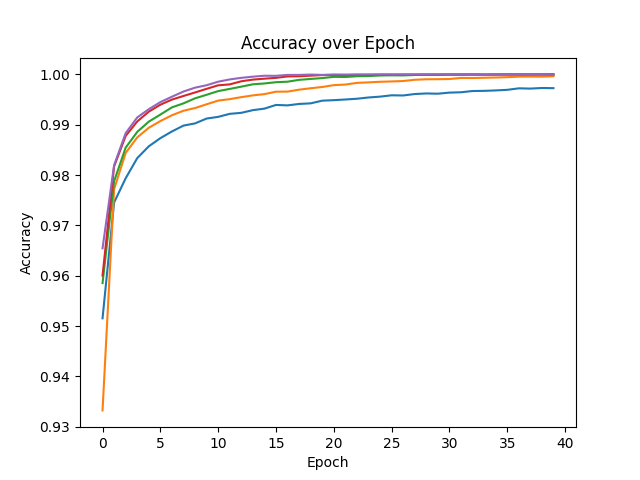
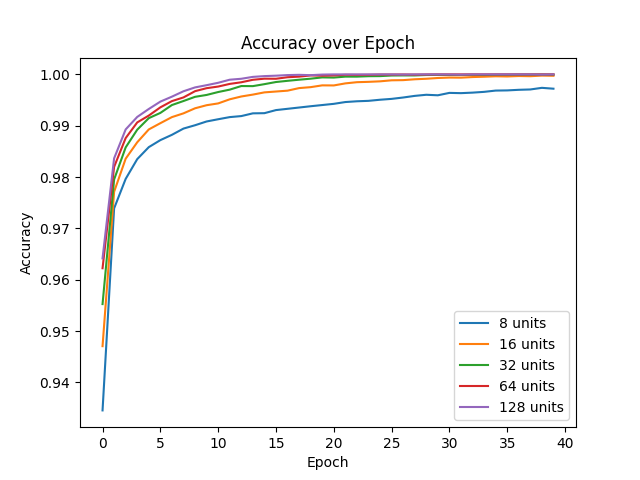
Fix multiple curves HLU

diff --git a/lab3_2_pytorch.py b/lab3_2_pytorch.py
@@ -133,7 +133,8 @@ if __name__ == "__main__":
     # Plot Training Loss Over Epoch
     plt.clf()
     for i in range(NB_HLU):
-        plt.plot(np.array(hists)[i, :, 0])
+        plt.plot(np.array(hists)[i, :, 0], label=f"{HL_UNITS[i]} units")
+    plt.legend()
     plt.xlabel("Epoch")
     plt.ylabel("Loss")
     plt.title("Loss over Epoch")
@@ -142,7 +143,8 @@ if __name__ == "__main__":
     # Plot Training Accuracy Over Epoch
     plt.clf()
     for i in range(NB_HLU):
-        plt.plot(np.array(hists)[i, :, 1])
+        plt.plot(np.array(hists)[i, :, 1], label=f"{HL_UNITS[i]} units")
+    plt.legend()
     plt.xlabel("Epoch")
     plt.ylabel("Accuracy")
     plt.title("Accuracy over Epoch")
